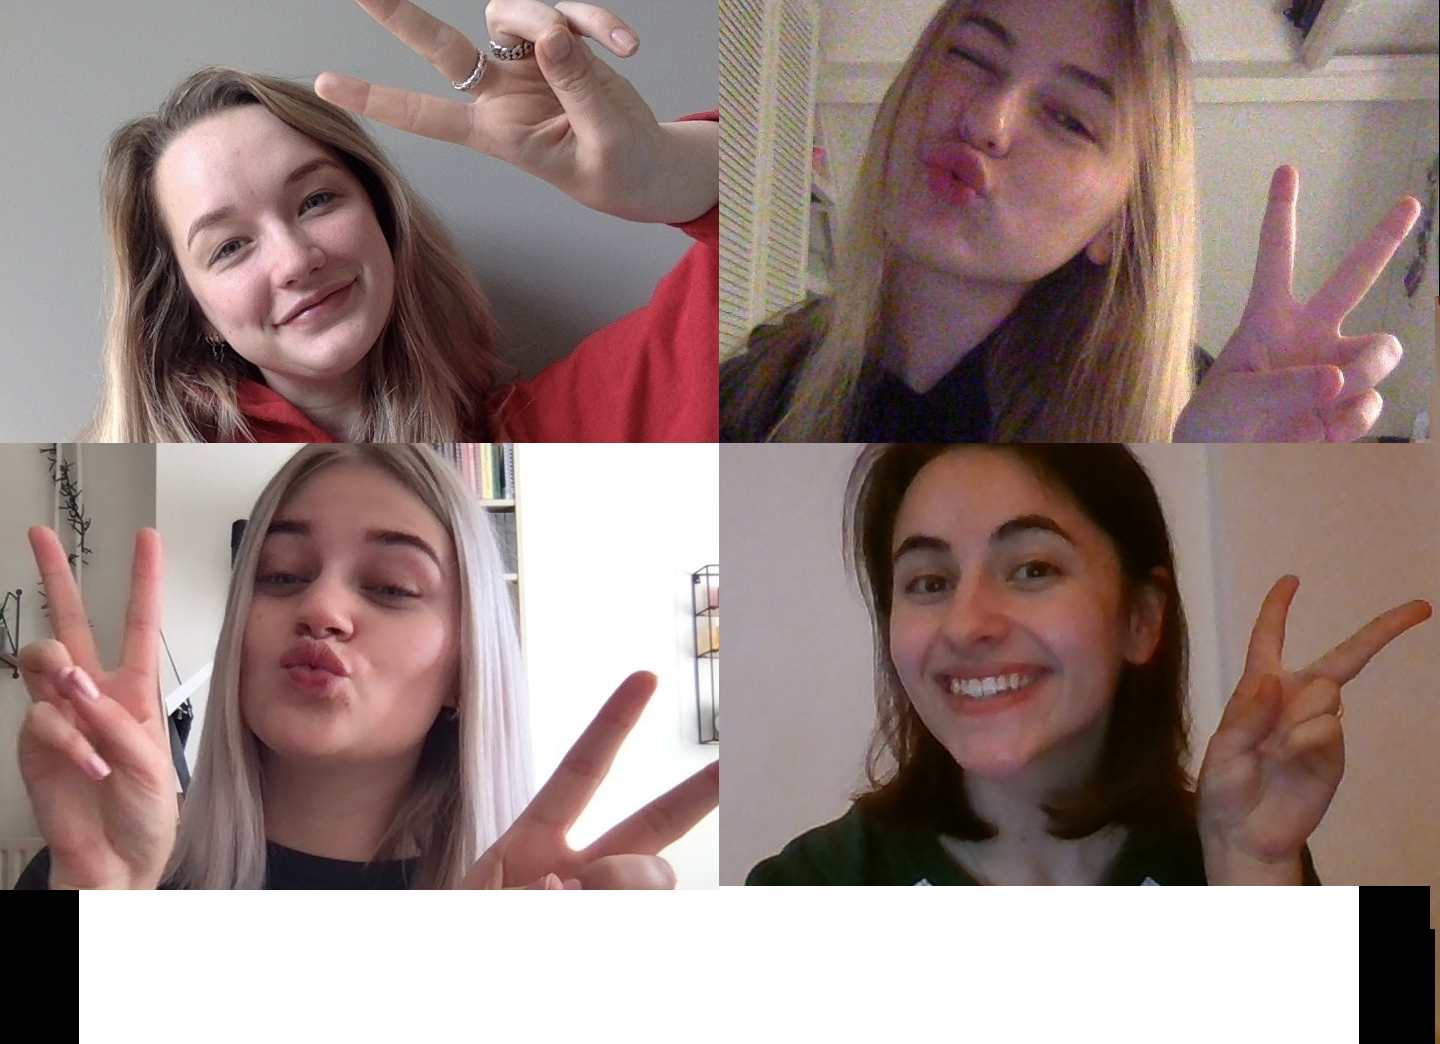
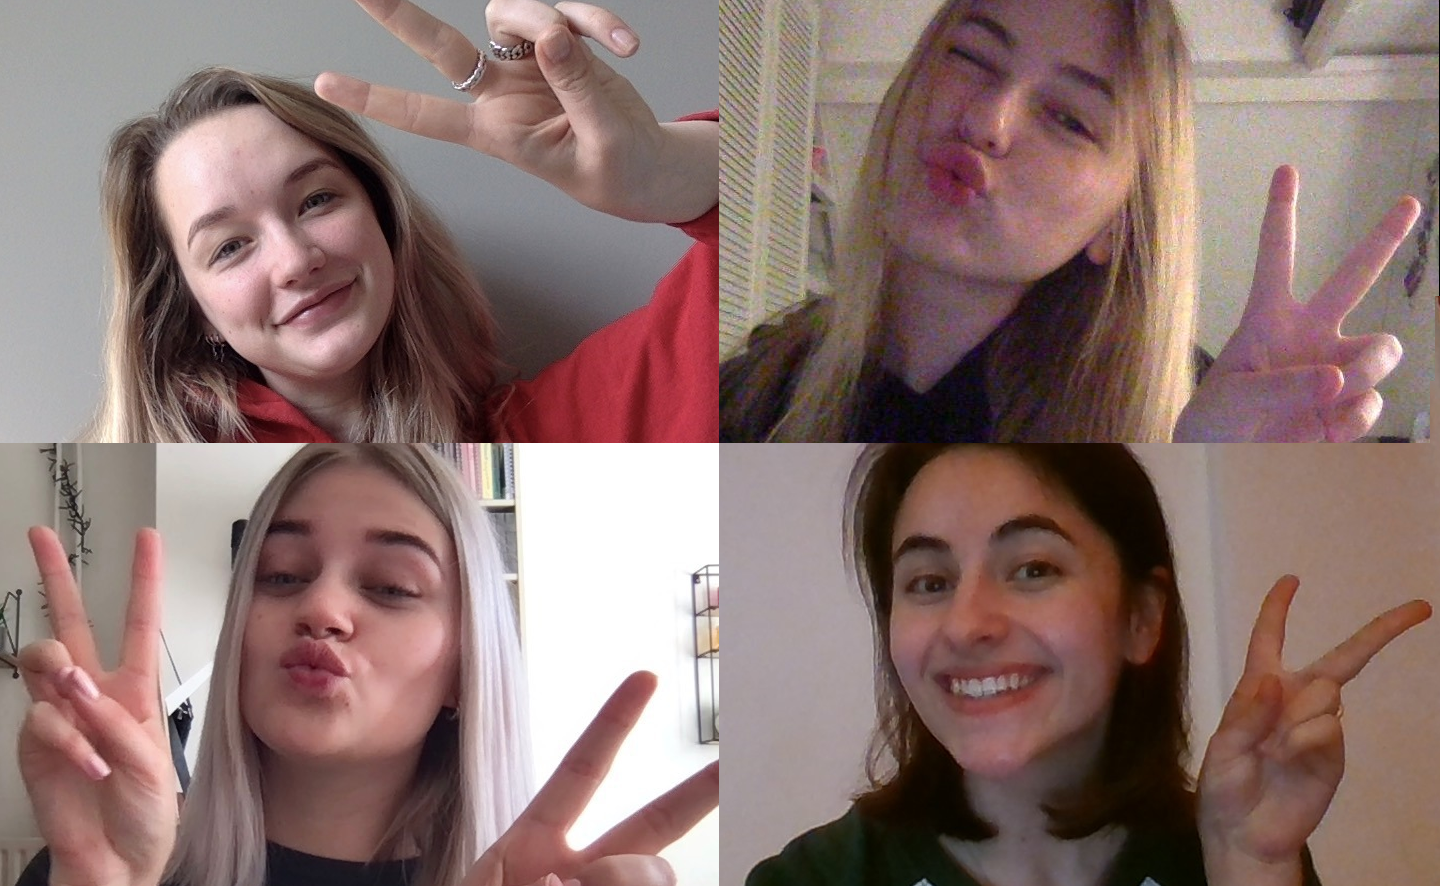
square background grouppic

diff --git a/src/components/AboutUsBlock.vue b/src/components/AboutUsBlock.vue
@@ -66,5 +66,12 @@ export default class AboutUsBlock extends Vue {
     
     body { font-family: Helvetica; }
 
+    @media(max-width: 900px) {
+        .wide__container {
+            background-image: url('../assets/grouppic_onepager_square.png');
+            background-position: top; 
+        }
+    }
+
 
 </style>
